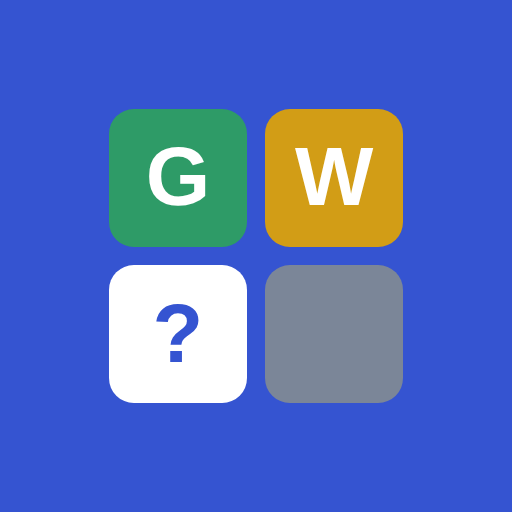
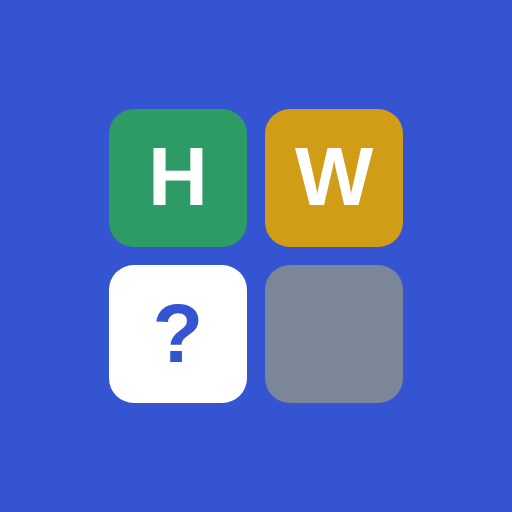
Rename the game to Hadsi Words
Claude-Session: https://claude.ai/code/session_01TQid16dLnYWq7Bq3nt5eBm

Changed region(s): [[0.2812, 0.2812, 0.4062, 0.4062]]

diff --git a/index.html b/index.html
@@ -2,7 +2,7 @@
 <html lang="en">
 <head>
 <!--ARTIFACT:START-->
-<title>Guesswork Unlimited</title>
+<title>Hadsi Words</title>
 <!--ARTIFACT:END-->
 <meta charset="utf-8">
 <meta name="viewport" content="width=device-width, initial-scale=1, viewport-fit=cover, interactive-widget=resizes-content">
@@ -12,7 +12,7 @@
 <meta name="apple-mobile-web-app-capable" content="yes">
 <meta name="mobile-web-app-capable" content="yes">
 <meta name="apple-mobile-web-app-status-bar-style" content="default">
-<meta name="apple-mobile-web-app-title" content="Guesswork">
+<meta name="apple-mobile-web-app-title" content="Hadsi Words">
 <link rel="manifest" href="manifest.webmanifest">
 <link rel="icon" href="icons/icon-192.png" type="image/png">
 <link rel="apple-touch-icon" href="icons/apple-touch-icon.png">
@@ -296,7 +296,7 @@ ul.tight { margin: 0; padding-left: 18px; display: flex; flex-direction: column;
       <button class="who" id="btnWho" aria-label="Change player"><span class="badge" id="whoBadge">P</span><span class="nm" id="whoName">Player</span></button>
     </div>
     <div class="brand">
-      <h1>Guess<span>work</span></h1>
+      <h1>Hadsi <span>Words</span></h1>
       <div class="meta" id="meta">&nbsp;</div>
     </div>
     <div class="right">
@@ -845,7 +845,7 @@ function openSettings() {
         ${sw('sEnter', s.enterRight, 'Enter key on the right', 'Swap Enter and Delete to avoid mis-taps.')}
       </div>
     </div>
-    <p class="small muted">Guesswork has no ads, no accounts and no tracking. Everything stays on this phone.</p>
+    <p class="small muted">Hadsi Words has no ads, no accounts and no tracking. Everything stays on this phone.</p>
   `, { after: b => {
     const note = () => {
       const g = G();
@@ -1015,7 +1015,7 @@ function requestNew() {
 /* result + share */
 function shareText(g) {
   const sq = DB.settings.contrast ? { hit: '🟧', near: '🟦', miss: '⬜' } : { hit: '🟩', near: '🟨', miss: '⬜' };
-  const head = `Guesswork ${g.len}-letter${g.challenge ? ' challenge' : ''} ${g.won ? g.guesses.length : 'X'}/6${g.hard ? '*' : ''}`;
+  const head = `Hadsi Words ${g.len}-letter${g.challenge ? ' challenge' : ''} ${g.won ? g.guesses.length : 'X'}/6${g.hard ? '*' : ''}`;
   const extra = [P().prefs.timer ? fmtTime(g.elapsed) : null, g.hints ? `${g.hints} hint${g.hints > 1 ? 's' : ''}` : 'no hints'].filter(Boolean).join(' · ');
   const grid = g.guesses.map(x => score(x, g.word).map(m => sq[m]).join('')).join('\n');
   let t = `${head}\n${extra}\n\n${grid}`;
@@ -1076,7 +1076,7 @@ function showCode(word, played) {
       <p class="small muted">Hand the phone over and pick who plays this word.</p>
       <div class="btns" style="margin-top:8px">${DB.players.map(pl => `<button class="btn" data-pl="${pl.id}"><span class="badge" style="width:22px;height:22px;font-size:11px;background:var(--${pl.color})">${esc((pl.name.trim()[0] || '?').toUpperCase())}</span>${esc(pl.name)}</button>`).join('')}</div>
     </div>`, { after: b => {
-    b.querySelector('#cShare').onclick = e => shareOrCopy(`Can you guess my ${word.length}-letter word in Guesswork? Code ${code}\n${link}`, e.currentTarget);
+    b.querySelector('#cShare').onclick = e => shareOrCopy(`Can you guess my ${word.length}-letter word in Hadsi Words? Code ${code}\n${link}`, e.currentTarget);
     b.querySelector('#cCopy').onclick = async () => { try { await navigator.clipboard.writeText(code); toast('Code copied'); } catch { toast('Code: ' + code, 3000); } };
     b.querySelectorAll('[data-pl]').forEach(x => x.onclick = () => startChallenge(word, x.dataset.pl));
   } });

diff --git a/sw.js b/sw.js
@@ -1,5 +1,5 @@
 // Offline support: cache the app shell, serve it cache-first, refresh in the background.
-const CACHE = 'guesswork-v1';
+const CACHE = 'hadsi-words-v2';
 const SHELL = ['./', 'index.html', 'words.json', 'manifest.webmanifest', 'icons/icon-192.png', 'icons/icon-512.png', 'icons/apple-touch-icon.png'];
 
 self.addEventListener('install', e => {

diff --git a/README.md b/README.md
@@ -1,4 +1,4 @@
-# Guesswork Unlimited
+# Hadsi Words
 
 A word-guessing game for phones (iPhone and Android). Guess the hidden word in six tries: green means right letter, right spot; gold means right letter, wrong spot; grey means not in the word.
 
